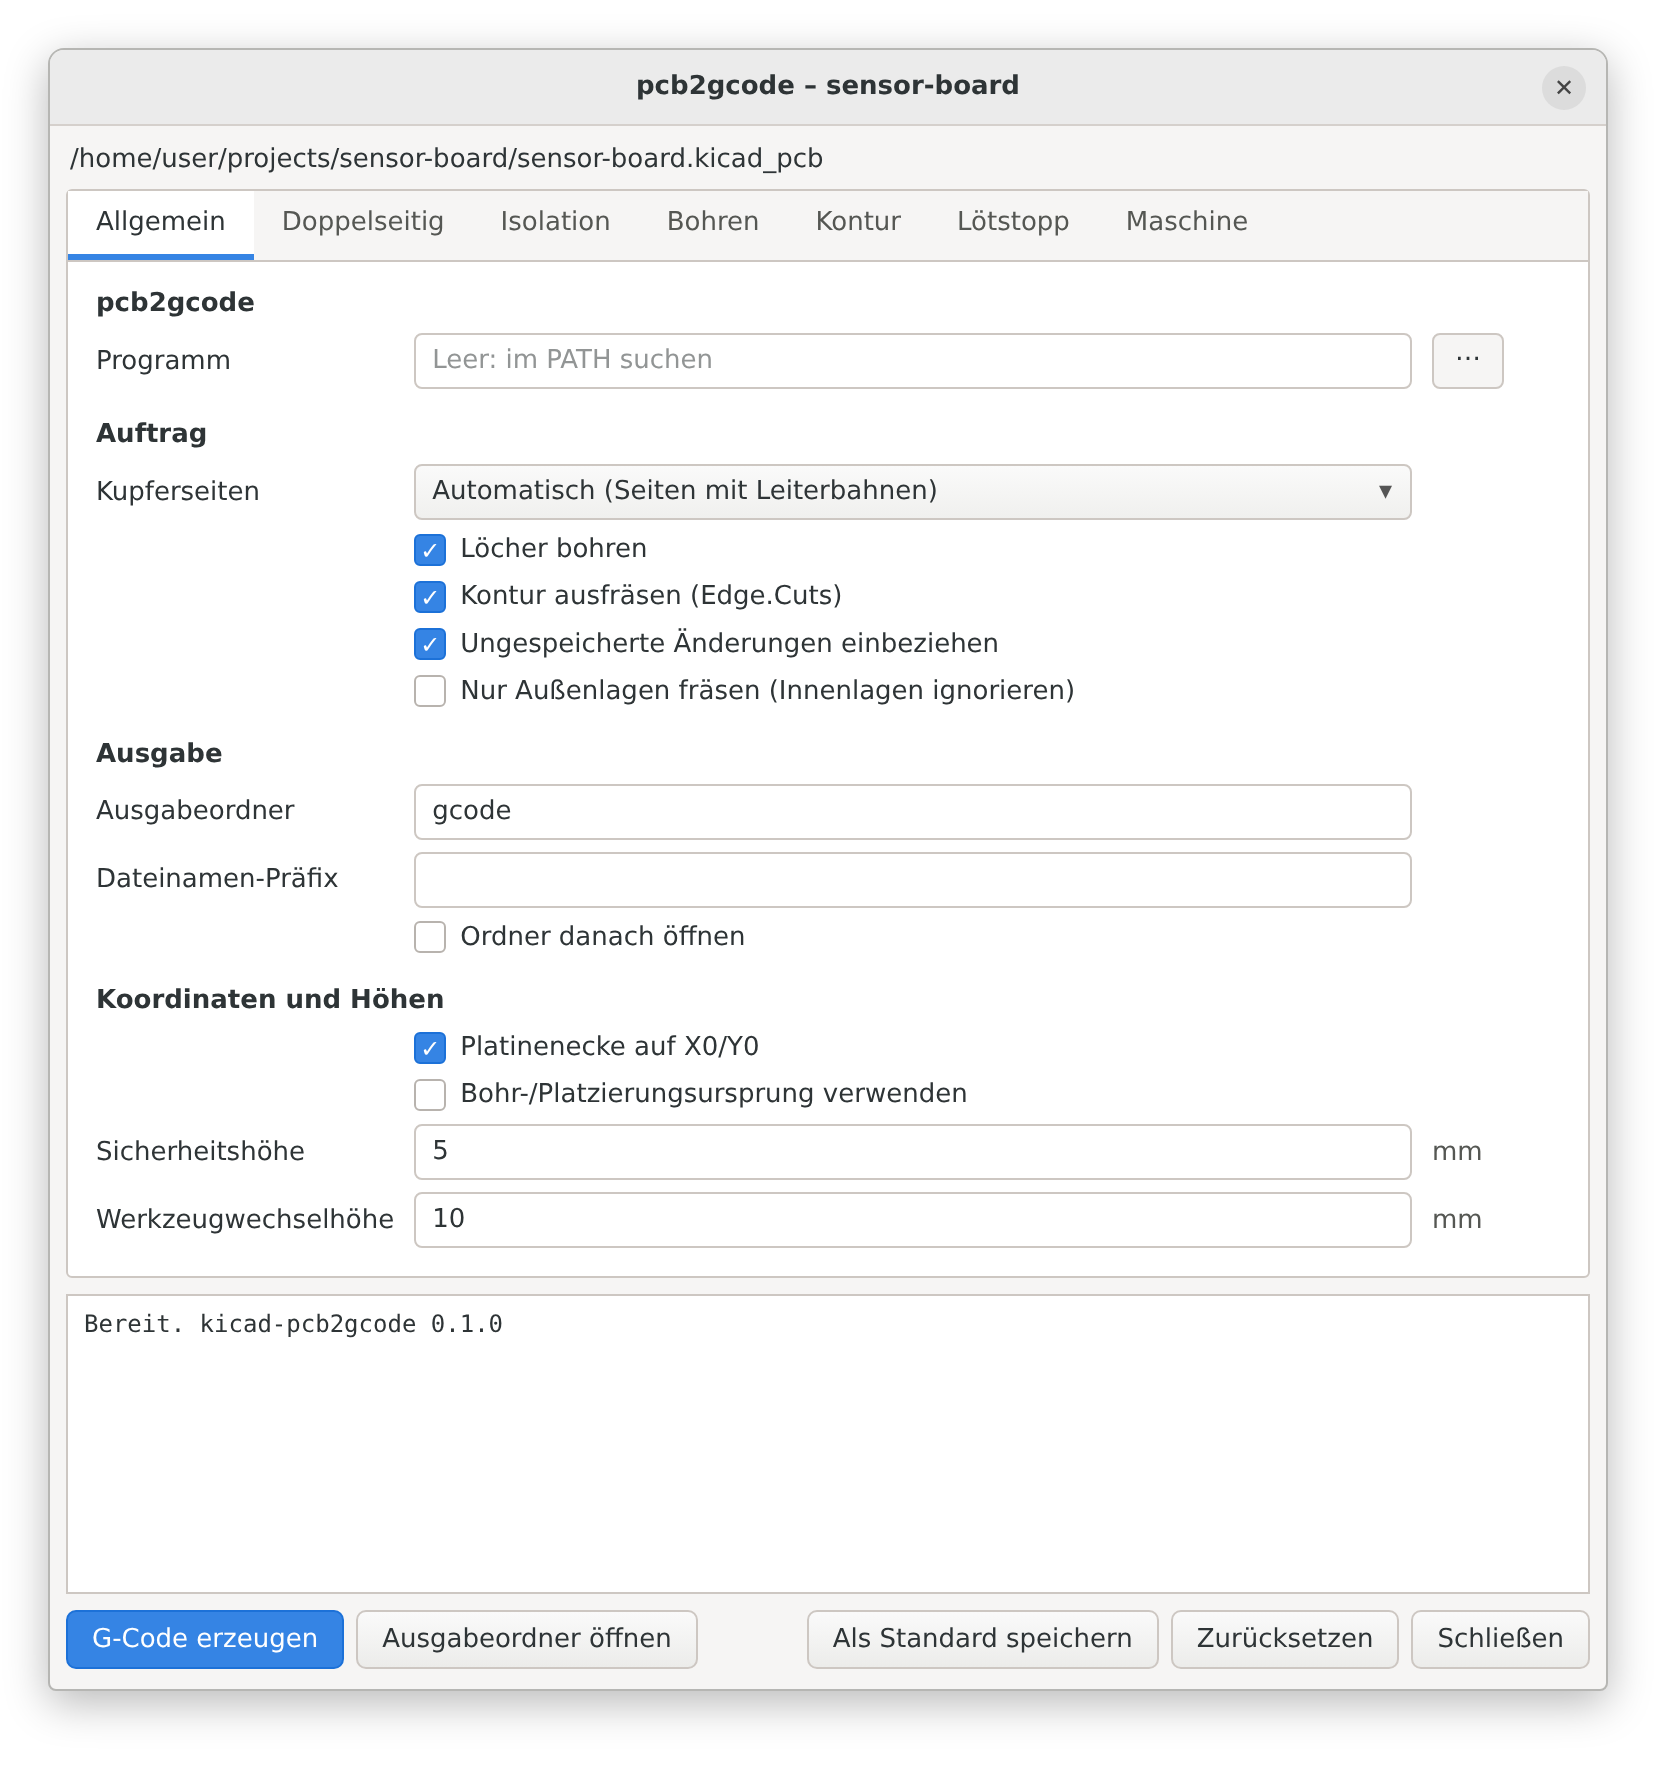
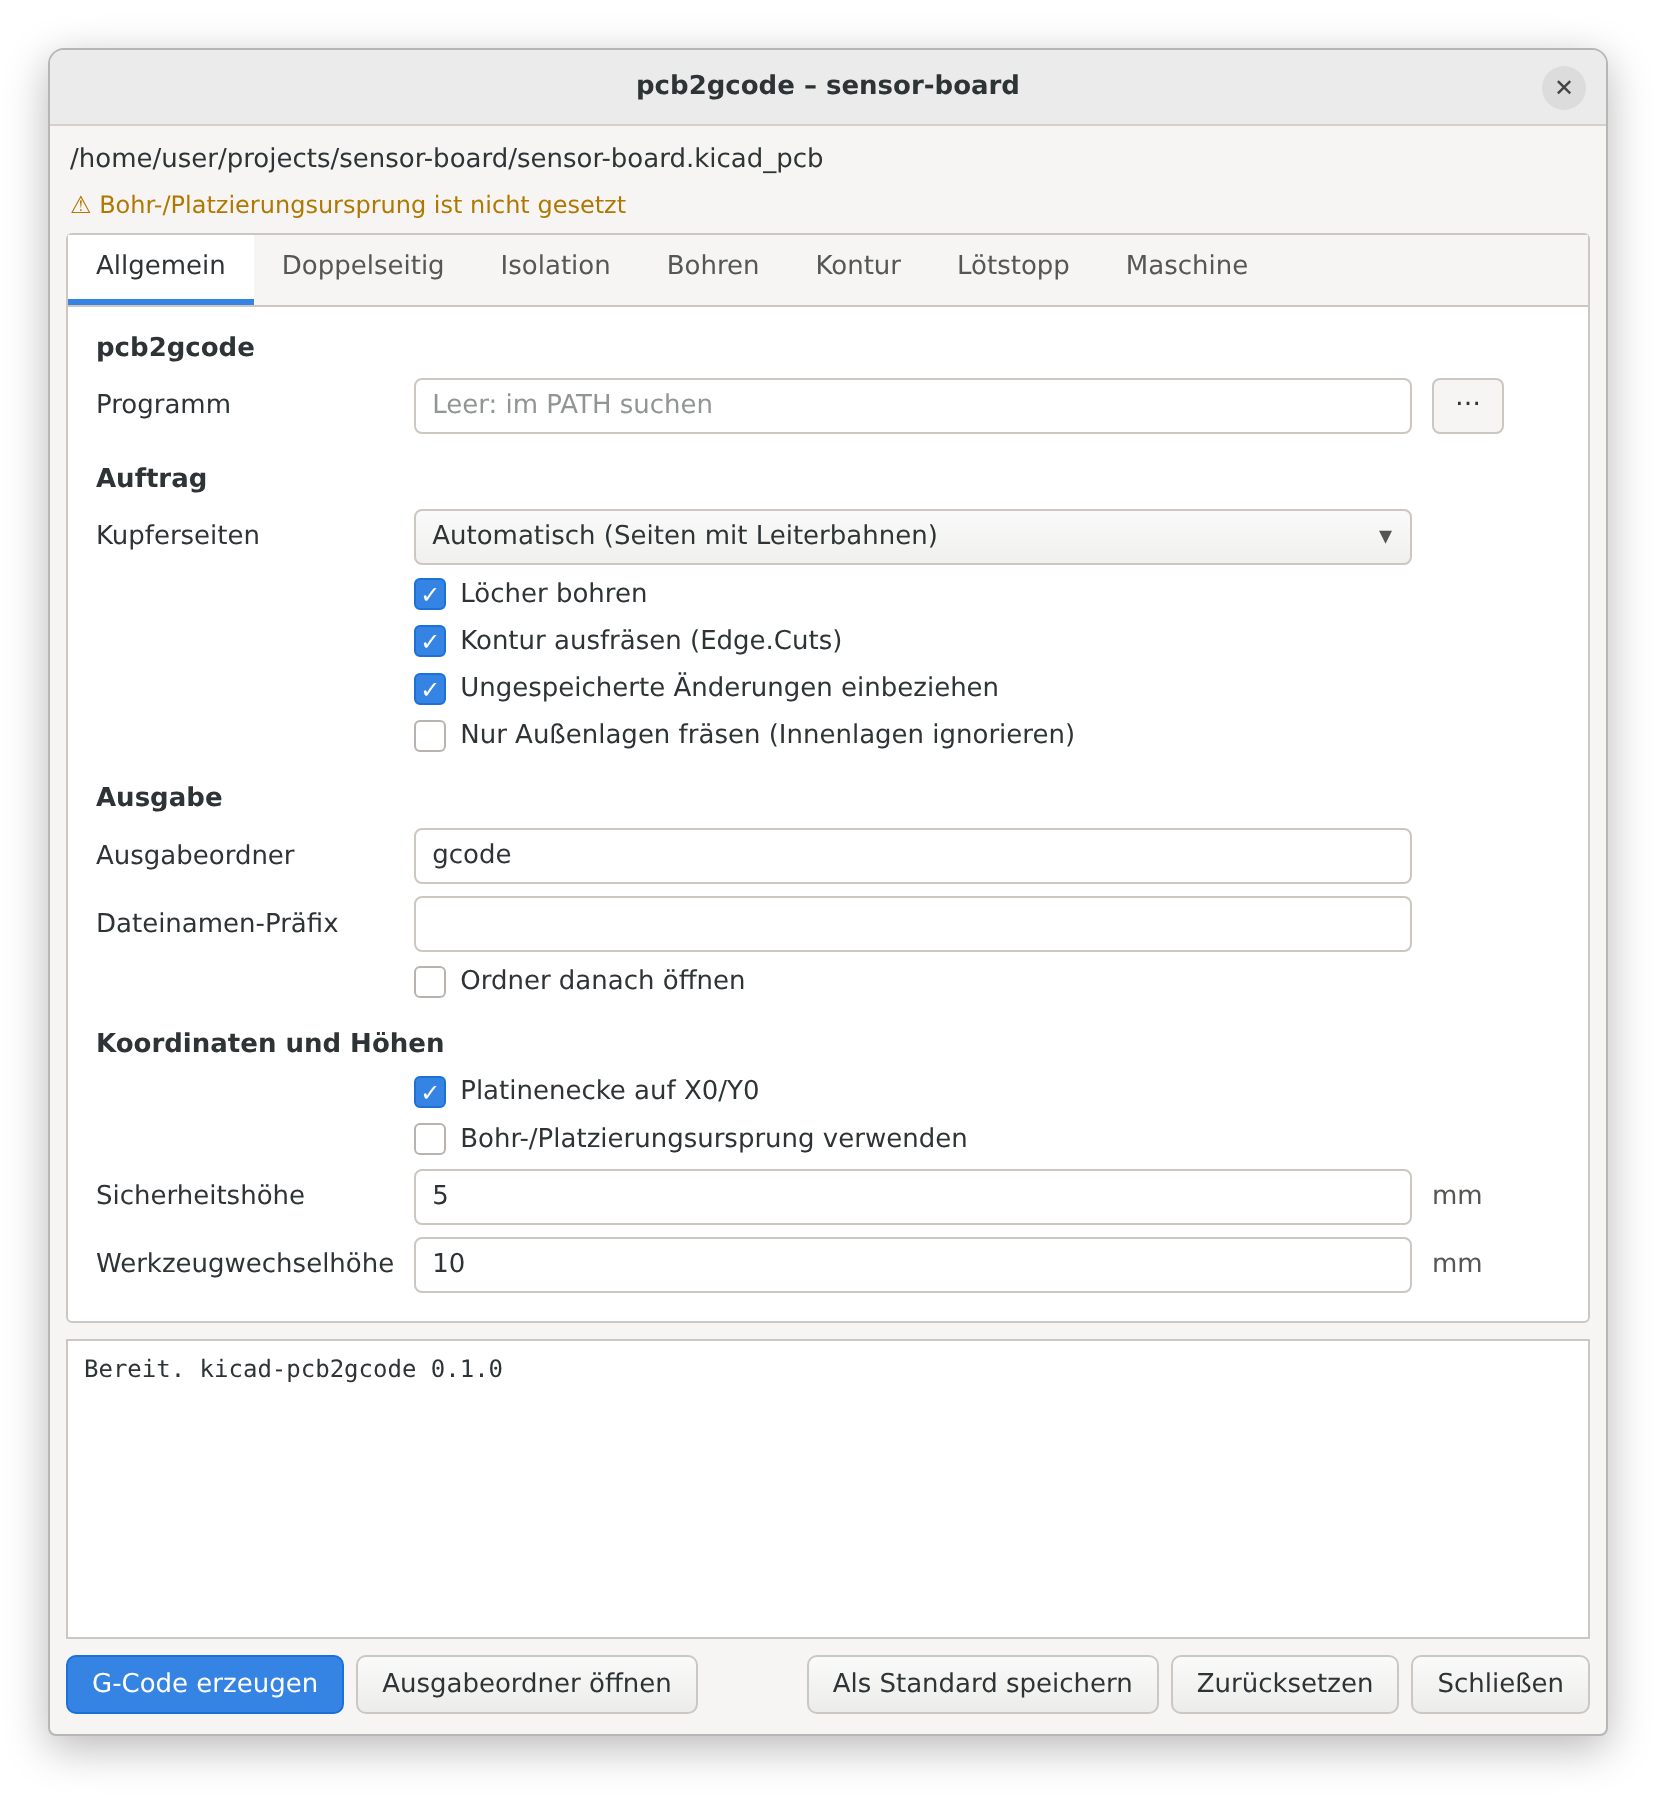
Note an unset drill/place file origin
The dialog shows a small amber note under the file name when KiCad's
drill/place file origin is still at 0/0; the tooltip says how to set it
and when it matters. The log repeats the note on every run and adds that
coordinates refer to the sheet corner when the drill origin is used
without the board corner at X0/Y0.

The origin is read from the running KiCad (get_origin, BOT_DRILL), so
unsaved changes count; if the API cannot answer, from aux_axis_origin
in the saved board file.

Claude-Session: https://claude.ai/code/session_01PpFE8sBd2hR1uK4Xvk6eWU

diff --git a/plugin/kicad_pcb2gcode/app.py b/plugin/kicad_pcb2gcode/app.py
@@ -9,6 +9,7 @@ from dataclasses import dataclass
 from typing import Optional
 
 from . import __version__
+from .boardfile import drill_origin, read_board
 from .export import find_kicad_cli, find_pcb2gcode
 from .i18n import tr
 from .job import CAM_SUBDIR, JobError, JobRequest, JobResult, Log, run_job
@@ -30,6 +31,21 @@ class BoardContext:
         if os.path.isabs(sub):
             return sub
         return os.path.join(os.path.dirname(os.path.abspath(self.board_path)), sub)
+
+    def drill_origin_set(self) -> Optional[bool]:
+        """Is KiCad's drill/place file origin set (away from 0/0)? Asks the
+        running KiCad first, then reads the saved board. None if unknown."""
+        if self.session is not None:
+            try:
+                answer = self.session.drill_origin_set()  # type: ignore[attr-defined]
+            except Exception:
+                answer = None
+            if answer is not None:
+                return answer
+        text = read_board(self.board_path)
+        if not text:
+            return None
+        return drill_origin(text) is not None
 
     def board_to_export(self, settings: Settings, log: Log) -> str:
         """The file kicad-cli should read: a fresh copy of the open board when
@@ -74,9 +90,33 @@ def generate(ctx: BoardContext, settings: Settings, cfg: AppConfig, log: Log) ->
         log(tr("Settings saved to {}", "Einstellungen gespeichert in {}").format(os.path.basename(path)))
     except OSError as exc:
         log(tr("Warning: could not save settings: {}", "Warnung: Einstellungen nicht gespeichert: {}").format(exc))
+    if ctx.drill_origin_set() is False:
+        log(drill_origin_hint(settings))
     req = build_request(ctx, settings, cfg, log)
     log(tr("Output folder: {}", "Ausgabeordner: {}").format(req.output_dir))
     return run_job(req, log)
+
+
+def drill_origin_hint(settings: Settings) -> str:
+    """One-line note that the drill/place origin is not set."""
+    text = tr("Note: the drill/place file origin is not set (it is at 0/0).",
+              "Hinweis: Der Bohr-/Platzierungsursprung ist nicht gesetzt (liegt bei 0/0).")
+    g = settings.general
+    if g.use_aux_origin and not (g.zero_start or g.frame_mode):
+        text += " " + tr("Coordinates are measured from the sheet corner.",
+                         "Koordinaten beziehen sich auf die Blattecke.")
+    return text
+
+
+def drill_origin_tip() -> str:
+    return tr(
+        "Set it in KiCad with Place > Drill/Place File Origin. It matters when 'Use drill/place file "
+        "origin' is on and 'Board corner at X0/Y0' is off; with the board corner at X0/Y0 the G-code "
+        "does not depend on it.",
+        "Setzen in KiCad über Platzieren > Bohr-/Platzierungsursprung. Er zählt, wenn "
+        "'Bohr-/Platzierungsursprung verwenden' an und 'Platinenecke auf X0/Y0' aus ist; mit der "
+        "Platinenecke auf X0/Y0 hängt der G-Code nicht davon ab.",
+    )
 
 
 def open_folder(path: str) -> None:

diff --git a/scripts/render_previews.py b/scripts/render_previews.py
@@ -69,6 +69,7 @@ body { margin: 0; padding: 24px; background: #ffffff; font: 13px/1.35 "Cantarell
 .btn { white-space: nowrap; border: 1px solid #cdc7c2; border-radius: 5px; background: linear-gradient(#fafafa, #ececea); padding: 5px 12px; }
 .btn.default { background: #3584e4; color: #fff; border-color: #1c71d8; }
 .spacer { flex: 1; }
+.origin { padding: 0 10px 6px; color: #b07800; font-size: 12px; }
 .caption { margin-top: 10px; color: #77767b; font-size: 12px; }
 """
 
@@ -125,7 +126,7 @@ def page_html(index: int, settings: Settings) -> str:
     return '<div class="page">{}</div>'.format("".join(parts))
 
 
-def window_html(index: int, settings: Settings, log_lines) -> str:
+def window_html(index: int, settings: Settings, log_lines, origin_hint: bool = False) -> str:
     tabs = "".join('<div class="tab{}">{}</div>'.format(" on" if i == index else "", esc(label_text(t)))
                    for i, (t, _) in enumerate(PAGES))
     tr = i18n.tr
@@ -138,9 +139,12 @@ def window_html(index: int, settings: Settings, log_lines) -> str:
     return (
         '<!doctype html><html><head><meta charset="utf-8"><style>{css}</style></head><body>'
         '<div class="win" id="win"><div class="title">pcb2gcode – sensor-board<span class="close">✕</span></div>'
-        '<div class="path">{path}</div><div class="nb"><div class="tabs">{tabs}</div>{page}</div>'
+        '<div class="path">{path}</div>{hint}<div class="nb"><div class="tabs">{tabs}</div>{page}</div>'
         '<div class="log" style="height:{log_h}px">{log}</div><div class="buttons">{buttons}</div></div></body></html>'
-    ).format(css=CSS, path=esc(BOARD), tabs=tabs, page=page_html(index, settings),
+    ).format(css=CSS, path=esc(BOARD), tabs=tabs,
+             hint='<div class="origin">\u26a0 {}</div>'.format(esc(tr(
+                 "Drill/place file origin is not set", "Bohr-/Platzierungsursprung ist nicht gesetzt")))
+             if origin_hint else "", page=page_html(index, settings),
              log=esc("\n".join(log_lines)), log_h=max(150, 17 * len(log_lines) + 14), buttons=buttons)
 
 
@@ -203,7 +207,7 @@ def render(lang: str) -> None:
     os.makedirs(OUT, exist_ok=True)
     for name, index, settings, log_lines in shots:
         target = os.path.join(OUT, "dialog-{}-{}.png".format(name, lang))
-        shoot(window_html(index, settings, log_lines), target)
+        shoot(window_html(index, settings, log_lines, origin_hint=(name == "general")), target)
         print(os.path.relpath(target, ROOT))
 
 

diff --git a/tests/test_job.py b/tests/test_job.py
@@ -309,3 +309,45 @@ def test_invalid_mask_settings_are_reported_as_such(board):
     s.mask.zwork = 0.1
     with pytest.raises(JobError, match="Solder mask: Milling depth must be below zero"):
         run_job(request(board, s), lambda line: None)
+
+
+class OriginSession:
+    def __init__(self, answer):
+        self.answer = answer
+
+    def drill_origin_set(self):
+        if isinstance(self.answer, Exception):
+            raise self.answer
+        return self.answer
+
+    def save_copy(self, target):
+        return False
+
+
+def test_drill_origin_from_kicad_or_board_file(board):
+    ctx = BoardContext(board_path=board)
+    assert ctx.drill_origin_set() is False  # board file without aux_axis_origin
+    with open(board, "w") as fh:
+        fh.write("(kicad_pcb (setup (aux_axis_origin 50 60)))")
+    assert ctx.drill_origin_set() is True
+    # the running KiCad wins over the saved file (unsaved changes) ...
+    assert BoardContext(board_path=board, session=OriginSession(False)).drill_origin_set() is False
+    # ... unless the API cannot answer
+    assert BoardContext(board_path=board, session=OriginSession(None)).drill_origin_set() is True
+    assert BoardContext(board_path=board, session=OriginSession(RuntimeError())).drill_origin_set() is True
+    assert BoardContext(board_path=board + ".missing").drill_origin_set() is None
+
+
+def test_unset_drill_origin_is_noted_in_the_log(board):
+    ctx = BoardContext(board_path=board, kicad_cli=fake("kicad-cli"))
+    cfg = AppConfig(pcb2gcode_path=fake("pcb2gcode"))
+    log = []
+    generate(ctx, Settings(), cfg, log.append)
+    assert any("drill/place file origin is not set" in line for line in log)
+    assert not any("sheet corner" in line for line in log)  # irrelevant with the board corner at X0/Y0
+    s = Settings()
+    s.general.use_aux_origin = True
+    s.general.zero_start = False
+    log = []
+    generate(ctx, s, cfg, log.append)
+    assert any("measured from the sheet corner" in line for line in log)

diff --git a/plugin/kicad_pcb2gcode/gui.py b/plugin/kicad_pcb2gcode/gui.py
@@ -15,7 +15,7 @@ from typing import Any, Dict, List, Optional, Tuple
 import wx
 
 from . import __version__
-from .app import BoardContext, generate, open_folder
+from .app import BoardContext, drill_origin_tip, generate, open_folder
 from .form import PAGES, Field, Heading, Row, format_number, parse_number, label_text
 from .i18n import tr
 from .job import JobError
@@ -43,7 +43,21 @@ class Pcb2GcodeDialog(wx.Dialog):
 
         header = wx.StaticText(self, label=ctx.board_path)
         header.SetToolTip(ctx.board_path)
-        root.Add(header, 0, wx.ALL | wx.EXPAND, 8)
+        root.Add(header, 0, wx.LEFT | wx.RIGHT | wx.TOP | wx.EXPAND, 8)
+
+        # Subtle note, not a dialog: the drill/place origin is still at 0/0.
+        self.origin_hint: Optional[wx.StaticText] = None
+        if ctx.drill_origin_set() is False:
+            hint = wx.StaticText(self, label="\u26a0 " + tr(
+                "Drill/place file origin is not set", "Bohr-/Platzierungsursprung ist nicht gesetzt"))
+            font = hint.GetFont()
+            font.SetPointSize(max(font.GetPointSize() - 1, 7))
+            hint.SetFont(font)
+            hint.SetForegroundColour(wx.Colour(176, 120, 0))
+            hint.SetToolTip(drill_origin_tip())
+            root.Add(hint, 0, wx.LEFT | wx.RIGHT | wx.TOP, 8)
+            self.origin_hint = hint
+        root.AddSpacer(8)
 
         self.notebook = wx.Notebook(self)
         for title, rows in PAGES:

diff --git a/plugin/kicad_pcb2gcode/boardfile.py b/plugin/kicad_pcb2gcode/boardfile.py
@@ -8,11 +8,12 @@ KiCad 6 to 10 file formats (layer names quoted or not, any layer numbering).
 from __future__ import annotations
 
 import re
-from typing import List
+from typing import List, Optional, Tuple
 
 _INNER = re.compile(r'\(\s*\d+\s+"?(In(\d+)\.Cu)"?\s')
 # KiCad writes "(via blind ..." for blind and buried vias, "(via micro ..." for microvias.
 _SPECIAL_VIA = re.compile(r"\(via\s+(blind|buried|micro)\b")
+_AUX_ORIGIN = re.compile(r"\(aux_axis_origin\s+([-+\d.eE]+)\s+([-+\d.eE]+)\s*\)")
 
 
 def read_board(path: str) -> str:
@@ -40,3 +41,18 @@ def inner_copper_layers(text: str) -> List[str]:
 def special_via_kinds(text: str) -> List[str]:
     """Sorted kinds of non-through vias used on the board ("blind", "micro")."""
     return sorted({m.group(1) for m in _SPECIAL_VIA.finditer(text)})
+
+
+def drill_origin(text: str) -> Optional[Tuple[float, float]]:
+    """The drill/place file origin in mm, or None while it is not set.
+
+    KiCad keeps it in the setup section as ``(aux_axis_origin X Y)`` and leaves
+    the entry out while it is at its default 0/0.
+    """
+    m = _AUX_ORIGIN.search(text)
+    if not m:
+        return None
+    x, y = float(m.group(1)), float(m.group(2))
+    if x == 0 and y == 0:
+        return None
+    return x, y

diff --git a/plugin/kicad_pcb2gcode/kicad_bridge.py b/plugin/kicad_pcb2gcode/kicad_bridge.py
@@ -34,6 +34,15 @@ class KiCadSession:
     def project_dir(self) -> str:
         return os.path.dirname(self.board_path)
 
+    def drill_origin_set(self) -> Optional[bool]:
+        """Whether the drill/place file origin is away from 0/0, as KiCad has it
+        right now (unsaved changes included). None if the API cannot tell."""
+        try:
+            origin = self.board.get_origin(2)  # BoardOriginType.BOT_DRILL
+            return not (int(origin.x) == 0 and int(origin.y) == 0)
+        except Exception:
+            return None
+
     def save_copy(self, target: str) -> bool:
         """Ask KiCad to write the open board, unsaved edits included, to ``target``.
 

diff --git a/tests/test_boardfile.py b/tests/test_boardfile.py
@@ -68,3 +68,11 @@ def test_split_drill_files(tmp_path):
     # without knowing the board name the shortest name is the through-hole file
     merged, _ = split_drill_files(str(tmp_path))
     assert merged.endswith("b.drl")
+
+
+def test_drill_origin():
+    from kicad_pcb2gcode.boardfile import drill_origin
+
+    assert drill_origin(TWO_LAYER) is None  # KiCad leaves the entry out at 0/0
+    assert drill_origin("(setup (aux_axis_origin 0 0))") is None
+    assert drill_origin("(setup\n\t\t(aux_axis_origin 100.5 -80.25)\n\t)") == (100.5, -80.25)

diff --git a/README.de.md b/README.de.md
@@ -74,6 +74,12 @@ Board öffnen, Toolbar-Button drücken, Einstellungen prüfen,
   an), siehe unten.
 * **Maschine** – G-Code-Dialekt und zusätzliche pcb2gcode-Optionen.
 
+Steht KiCads Bohr-/Platzierungsursprung noch auf 0/0, weist ein kleiner
+Hinweis unter dem Dateinamen darauf hin (Details per Mauszeiger), und das
+Protokoll wiederholt ihn. Mit **Platinenecke auf X0/Y0** hängt der G-Code nicht
+von diesem Ursprung ab; er zählt nur, wenn **Bohr-/Platzierungsursprung
+verwenden** an und die Platinenecke aus ist.
+
 Die Voreinstellungen stammen aus einer bewährten pcb2gcodeGUI-Einstellung
 für eine GRBL-Fräse mit 24 000 1/min: ein Gravierstichel, der in 0,25 mm Tiefe
 0,154 mm breit schneidet (2 mm Isolationsbreite, 0,1 mm zusätzlicher

diff --git a/README.md b/README.md
@@ -72,6 +72,11 @@ Open a board, press the toolbar button, check the settings, press
   see below.
 * **Machine** – G-code dialect switches and extra pcb2gcode options.
 
+If KiCad's drill/place file origin is still at 0/0, a small note under the
+file name says so (hover it for details) and the log repeats it. With
+**Board corner at X0/Y0** the G-code does not depend on that origin; it only
+matters with **Use drill/place file origin** on and the board corner off.
+
 The defaults come from a proven pcb2gcodeGUI setup on a GRBL machine with a
 24 000 rpm spindle: an engraving bit cutting 0.154 mm wide at 0.25 mm depth
 (2 mm isolation width, 0.1 mm extra offset), one drill size, a 1.5 mm end mill
